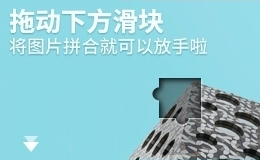
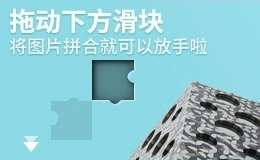
验证成功

diff --git a/openScver.py b/openScver.py
@@ -8,108 +8,43 @@ import os
 import requests
 import time
 import base64
-os.makedirs('./image/', exist_ok=True)
-
-
-
+import range
+t = str(int(time.time()))
+os.makedirs('./downloadimg/', exist_ok=True)
+URL = "https://zzk.cnblogs.com/s?t=b&w=%E5%89%8D%E7%AB%AF%E9%9D%A2%E8%AF%95%E9%A2%98"
 driver = webdriver.Chrome()
-driver.get('https://zzk.cnblogs.com/s?t=b&w=%E9%9D%A2%E8%AF%95%E9%A2%98')
+driver.get(URL)
 
-# geetest_slider_button geetest_refresh_1 geetest_canvas_bg
-time.sleep(3)
-load = driver.find_element_by_class_name('geetest_refresh_1')  #获取圆球
-actions = ActionChains(driver).click(load).perform() # 刷新图片
+# 下载小缺口的Canvas图片 
+time.sleep(5)
+QK_src = './downloadimg/'+t+'QK.png'
+getQKImgJS = 'return document.getElementsByClassName("geetest_canvas_slice")[0].toDataURL("image/png");'
+QK_img = driver.execute_script(getQKImgJS)
+QK_img = QK_img[QK_img.find(',') + 1:]
+img_QK_data = base64.b64decode(QK_img)
+file_QK = open(QK_src, 'wb')
+file_QK.write(img_QK_data)
+file_QK.close()
 
-
-# 拖到
-time.sleep(2)
-slideblock = driver.find_element_by_class_name('geetest_slider_button')  #获取圆球
-ActionChains(driver).click_and_hold(slideblock).perform() #按下圆球
-ActionChains(driver).move_by_offset(xoffset=160,yoffset=0).perform() #拖动圆球
-ActionChains(driver).pause(random.randint(6,14)/10).release(slideblock).perform() #放开圆球
-
-# 获取请求小图片的地址
-script = driver.find_elements_by_tag_name('script')
-for i in script:
-    if i.get_attribute('src').find('/refresh.php?gt') != -1:
-        imgUrl = i.get_attribute('src')
-# 请求地址
-imgdriver = webdriver.Chrome()
-imgdriver.get(imgUrl)
-text = imgdriver.find_element_by_tag_name('pre').text
-imgdriver.close()
-key = text.find('({')
-jsonStr = text[key+1:len(text)-1]
-val =json.loads(jsonStr)
-
-# 下载小缺口图片
-imgName = './image/'+str(time.time())+ '.png'
-imgSrc = "https://static.geetest.com/" + val['slice']
-print(imgSrc)
-r = requests.get(imgSrc, stream=True)    
-with open(imgName, 'wb') as f:
-    for chunk in r.iter_content(chunk_size=32):
-        f.write(chunk)
-
-# 保存背景图
-time.sleep(2)
+# 下载Canvas背景图
+BG_src = './downloadimg/'+t+'bg.png'
 getImgJS = 'return document.getElementsByClassName("geetest_canvas_bg")[0].toDataURL("image/png");'
 bg_img = driver.execute_script(getImgJS)
 bg_img = bg_img[bg_img.find(',') + 1:]
 img_data = base64.b64decode(bg_img)
-file = open('./image/'+str(time.time())+'bg.png', 'wb')
+file = open(BG_src, 'wb')
 file.write(img_data)
 file.close()
+L = range.init(QK_src, BG_src)
+# 删除下载的图片
+os.remove(QK_src)
+os.remove(BG_src)
+# print('平移距离',L) 
 
-# 显示图片
-# time.sleep(3)
-# img = cv2.imread(imgName)
-# cv2.namedWindow("Image") 
-# cv2.imshow("Image", img)
-# cv2.waitKey(0)
-# cv2.destroyAllWindows()
-
-# def get_track(self,distance):
-#     track=[]
-#     current=0
-#     mid=distance*3/4
-#     t=random.randint(2,3)/10
-#     v=0
-#     while current<distance:
-#           if current<mid:
-#              a=2
-#           else:
-#              a=-3
-#           v0=v
-#           v=v0+a*t
-#           move=v0*t+1/2*a*t*t
-#           current+=move
-#           track.append(round(move))
-#     return track
-# # 生成拖拽移动轨迹，加3是为了模拟滑过缺口位置后返回缺口的情况
-# track_list=get_track(127+3)
-# time.sleep(2)
-# ActionChains(driver).click_and_hold(slideblock).perform()
-# time.sleep(0.2)
-# # 根据轨迹拖拽圆球
-# for track in track_list:
-#     ActionChains(driver).move_by_offset(xoffset=track,yoffset=0).perform()
-# # 模拟人工滑动超过缺口位置返回至缺口的情况，数据来源于人工滑动轨迹，同时还加入了随机数，都是为了更贴近人工滑动轨迹
-# imitate=ActionChains(driver).move_by_offset(xoffset=-1, yoffset=0)
-# time.sleep(0.015)
-# imitate.perform()
-# time.sleep(random.randint(6,10)/10)
-# imitate.perform()
-# time.sleep(0.04)
-# imitate.perform()
-# time.sleep(0.012)
-# imitate.perform()
-# time.sleep(0.019)
-# imitate.perform()
-# time.sleep(0.033)
-# ActionChains(driver).move_by_offset(xoffset=1, yoffset=0).perform()
-# # 放开圆球
-# ActionChains(driver).pause(random.randint(6,14)/10).release(slideblock).perform()
-# time.sleep(2)
-# #务必记得加入quit()或close()结束进程，不断测试电脑只会卡卡西
-# driver.close()
+# geetest_slider_button geetest_refresh_1 geetest_canvas_bg dom 鼠标拖动运动
+slideblock = driver.find_element_by_class_name('geetest_slider_button')  #获取圆球
+ActionChains(driver).click_and_hold(slideblock).perform() #按下圆球
+ActionChains(driver).move_by_offset(xoffset=L,yoffset=0).perform() #拖动圆球
+ActionChains(driver).pause(random.randint(6,14)/10).release(slideblock).perform() #放开圆球
+time.sleep(10)
+driver.close()

diff --git a/range.py b/range.py
@@ -1,46 +1,53 @@
 import cv2
 import  numpy  as  np 
+import tailor
+import os
+def init(QK, BG):
+    # QK_min = './images/qk_min.png' #缺口小图片
+    # QK = './images/qk.png' #缺口原始图片
+    # BG = './images/bd.png' #背景图片
 
-QK_min = './images/qk_min.png'
-BG = './images/bd.png'
-img = cv2.imread(QK_min, 0) # 缺口原始图片
-yan = []
-size = img.shape
-retval, im_at_fixed = cv2.threshold(img, 50, 255, cv2.THRESH_BINARY) 
-for x in range(size[0]):
-    for y in range(size[1]):
-        if (y<size[1]-1) and (x<size[0]-1):
-            if(im_at_fixed[x,y] != im_at_fixed[x,y+1]):
-                yan.append([x,y])
-            if(im_at_fixed[x,y] != im_at_fixed[x+1,y]):
-                yan.append([x,y])
-            if(im_at_fixed[x,y] != im_at_fixed[x+1,y+1]):
-                yan.append([x,y])
+    newQKURL = tailor.init(QK) # 缺口原始图片的裁剪成下图片
+    img = cv2.imread(newQKURL, 0) # 缺口原始图片
+    os.remove(newQKURL) #删除图片
+    yan = []
+    size = img.shape
+    retval, im_at_fixed = cv2.threshold(img, 35, 255, cv2.THRESH_BINARY) 
+    for x in range(size[0]):
+        for y in range(size[1]):
+            if (y<size[1]-1) and (x<size[0]-1):
+                if(im_at_fixed[x,y] != im_at_fixed[x,y+1]):
+                    yan.append([x,y])
+                if(im_at_fixed[x,y] != im_at_fixed[x+1,y]):
+                    yan.append([x,y])
+                if(im_at_fixed[x,y] != im_at_fixed[x+1,y+1]):
+                    yan.append([x,y])
 
-X = []
-Y = []
-for list in yan:
-    X.append(list[0])
-    Y.append(list[1])
+    X = []
+    Y = []
+    for list in yan:
+        X.append(list[0])
+        Y.append(list[1])
 
-emptyImage = np.zeros(size, np.uint8)	
-# print(yan)
-#显示图像 emptyImage
-for i in yan:
-    emptyImage[i[0], i[1]] = 255
+    emptyImage = np.zeros(size, np.uint8)	
+    # print(yan)
+    #显示图像 emptyImage
+    for i in yan:
+        emptyImage[i[0], i[1]] = 255
 
-#***********************************************
-am = cv2.imread(BG, 0)# 背景图片
-ret, im_at_fixed = cv2.threshold(am, 170, 255, cv2.THRESH_BINARY) 
-edges = cv2.Canny(im_at_fixed,100,200)
+    #***********************************************
+    am = cv2.imread(BG, 0)# 背景图片
+    ret, im_at_fixed = cv2.threshold(am, 170, 255, cv2.THRESH_BINARY) 
+    edges = cv2.Canny(im_at_fixed,100,200)
 
 
 
-result = cv2.matchTemplate(emptyImage, edges, cv2.TM_CCOEFF_NORMED)
-x, y = np.unravel_index(result.argmax(), result.shape)
-aa = cv2.imread(BG) # 背景图片
-cv2.rectangle(aa, (y+8, x+8), (y+8 + max(Y)-min(Y), x+8 + max(X)-min(Y)), (255, 0, 0), 1)
-print('平移', y)
-cv2.imshow('img', aa) 
-cv2.waitKey(0)
-cv2.destroyAllWindows()
+    result = cv2.matchTemplate(emptyImage, edges, cv2.TM_CCOEFF_NORMED)
+    x, y = np.unravel_index(result.argmax(), result.shape)
+    aa = cv2.imread(BG) # 背景图片画出位置
+    cv2.rectangle(aa, (y+4, x+4), (y+4 + max(Y)-min(Y), x+4 + max(X)-min(Y)), (255, 0, 0), 1)
+    return (y)
+    # print('平移', y+4)
+    # cv2.imshow('img', aa)  # 展示图片
+    # cv2.waitKey(0)
+    # cv2.destroyAllWindows()

diff --git a/tailor.py b/tailor.py
@@ -1,5 +1,7 @@
 import cv2
 import  numpy  as  np 
+import time
+t=str(int(time.time()))
 def init(i):
     img = cv2.imread(i)
     size = img.shape
@@ -12,4 +14,5 @@ def init(i):
                 Y.append(x)
     print(min(Y),max(Y),min(X),max(X))
     # 37:79,6:48 [y0:y1, x0:x1]
-    return img[min(Y)-1:max(Y)+3,min(X)-1:max(X)+3]
+    cv2.imwrite('./seveimg/QK_seve'+t+'.png', img[min(Y)-5:max(Y)+5,min(X)-5:max(X)+5])
+    return './seveimg/QK_seve'+t+'.png'

diff --git a/model.py b/model.py
@@ -1,8 +1,3 @@
-import cv2
-import  numpy  as  np 
-import tailor
-QK = './images/qk.png'
-print(tailor.init(QK).shape)
-cv2.imshow('img', tailor.init(QK)) 
-cv2.waitKey(0)
-cv2.destroyAllWindows()
+import time
+
+print(int(time.time()))
